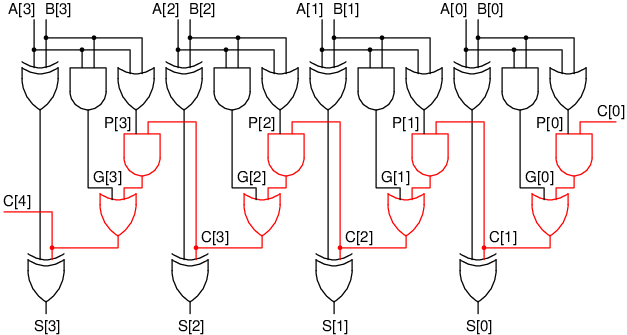
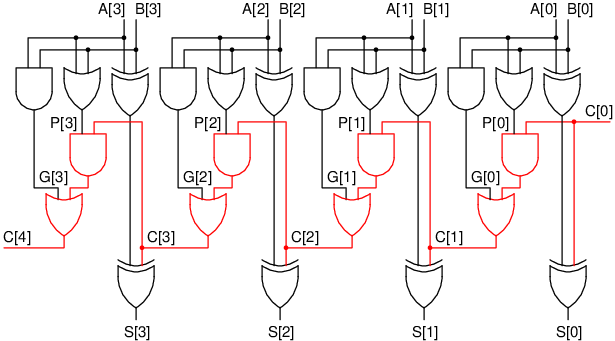
Fix PrefixAdder diagram

diff --git a/PrefixAdder/PrefixAdder.md b/PrefixAdder/PrefixAdder.md
@@ -53,7 +53,7 @@ Với `G[i]` và `P[i]`, ta có thể tính bit nhớ bằng công thức:
 ```
 C[i+1] = G[i] | P[i] & C[i]
 ```
-Công thức này nghĩa là `C[i+1] = 1` nếu bit nhớ được sinh ra ngay tại đây, hoặc là nó được truyền từ bit trước (và bit trước có nhớ). 
+Công thức này nghĩa là `C[i+1] = 1` nếu bit nhớ được sinh ra ngay tại đây (`G[i] = 1`), hoặc là nó được truyền từ bit trước (`P[i] = 1`) và bit trước có nhớ (`C[i] = 1`). 
 Sử dụng công thức này, ta có thể vẽ lại mạch như sau:
 
 ![](figures/GPAdd.png)
